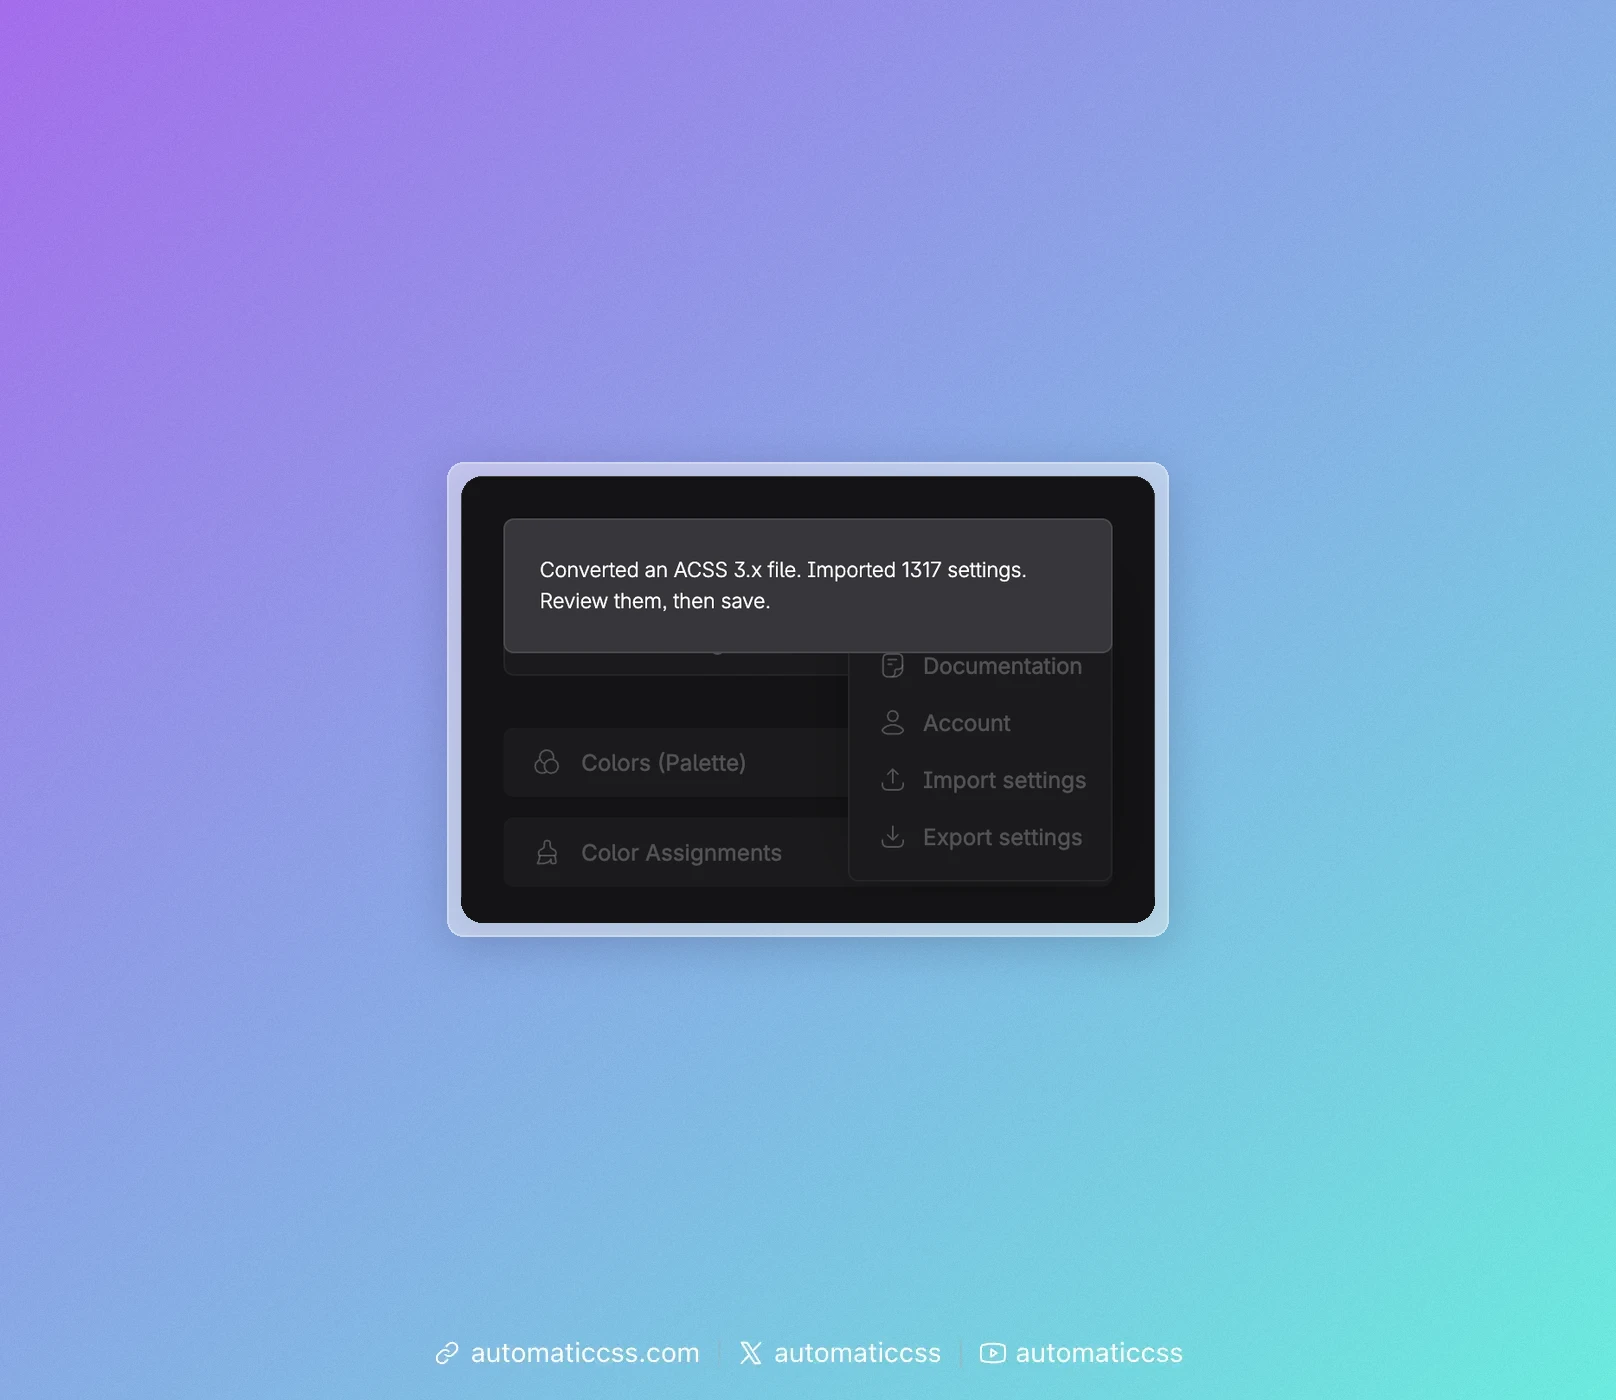
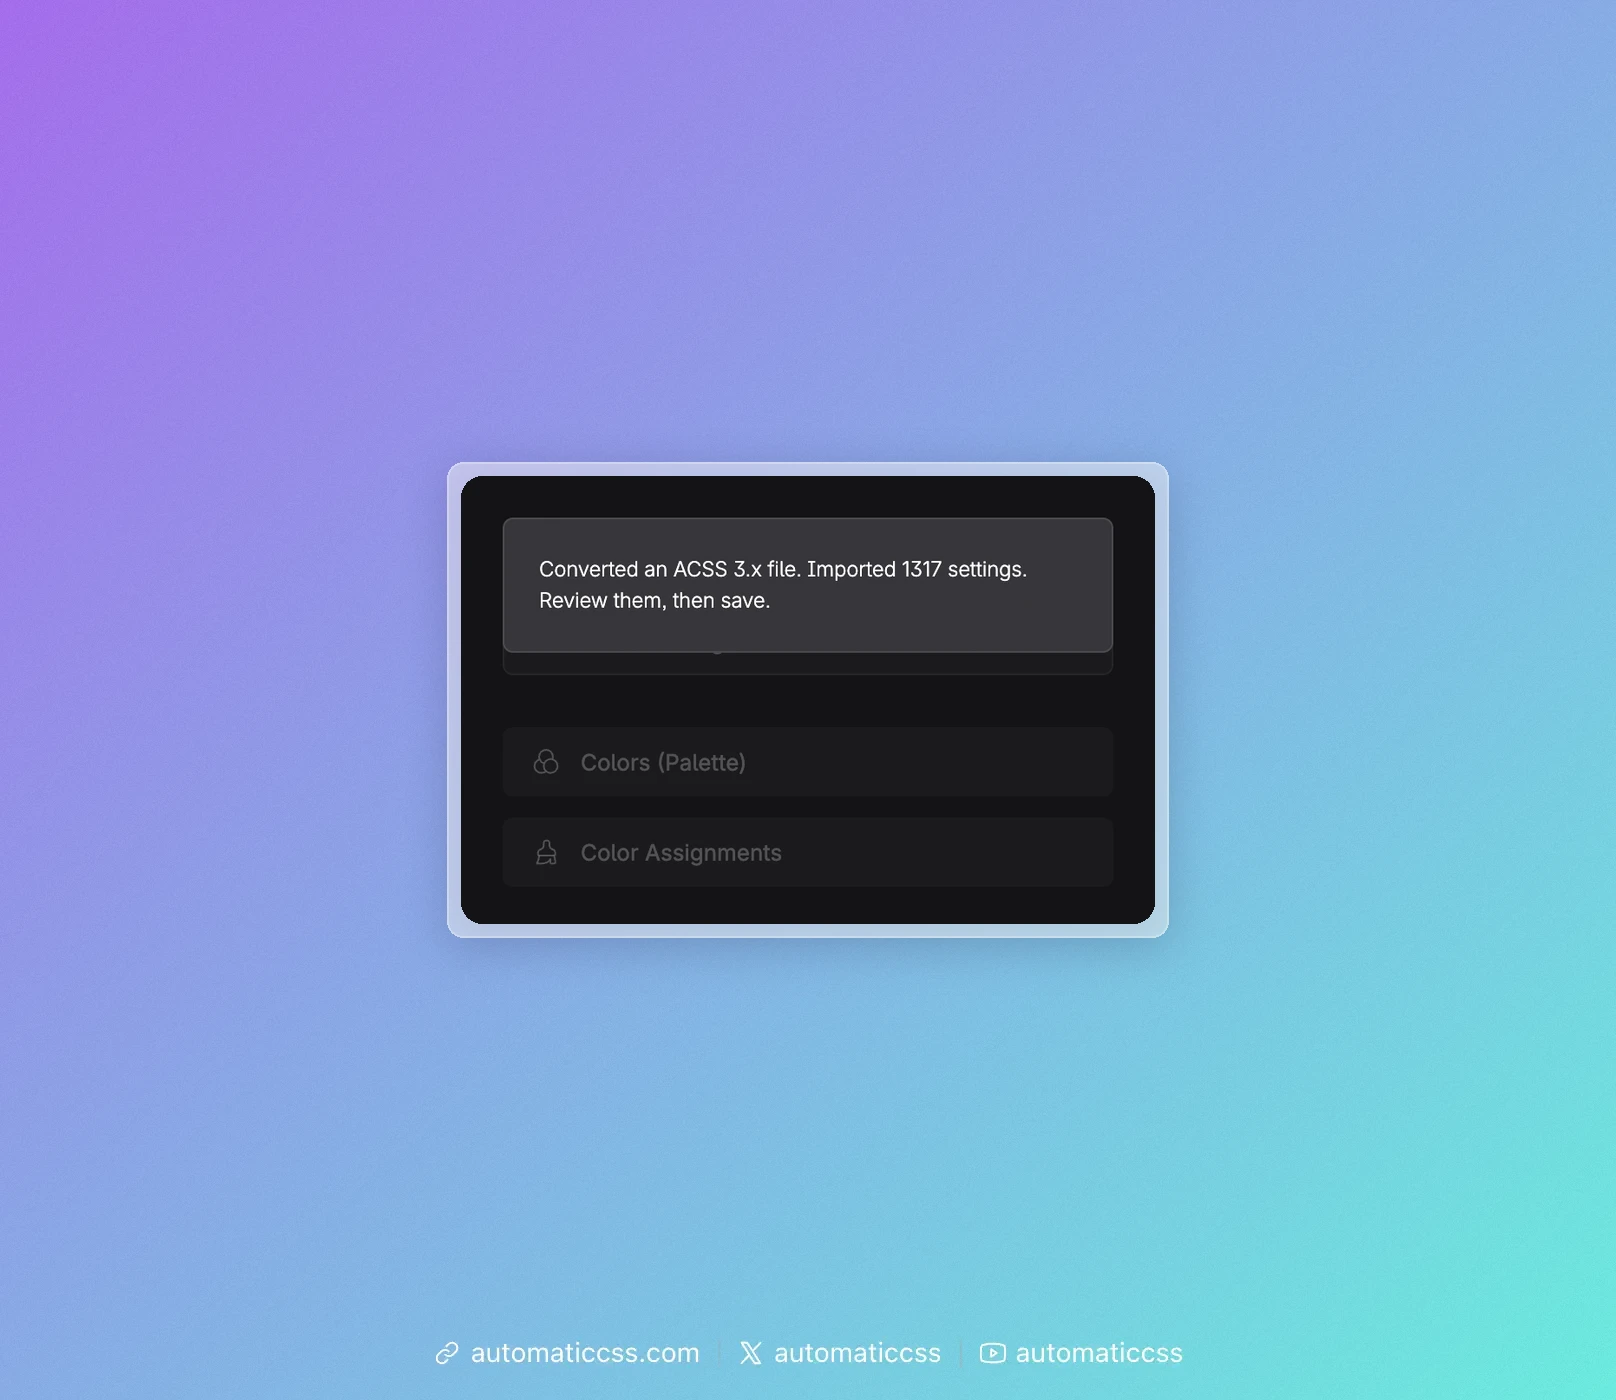
docs(setup): retake screenshots with the final menu and dot tooltips

diff --git a/docs/setup/import-export-settings.md b/docs/setup/import-export-settings.md
@@ -3,9 +3,9 @@ title: Import, Export and Reset Settings
 sidebar_position: 40
 ---
 
-You can move your Automatic.css settings between sites, or keep a copy of them, by exporting them as a JSON file and importing that file on another site. You can also reset all settings to the Automatic.css defaults, or discard changes you have not saved yet. All of these live in the dashboard's header menu. Further down, you'll also find what the dots in the dashboard mean.
+You can move your Automatic.css settings between sites, or keep a copy of them, by exporting them as a JSON file and importing that file on another site. You can also reset all settings to the Automatic.css defaults, or discard changes you have not saved yet. Import, export and reset live in the dashboard's header menu. Further down, you'll also find what the dots in the dashboard mean.
 
-![The dashboard header menu with Import settings, Export settings, Discard unsaved changes and Reset to defaults](img/dashboard-import-export-menu.webp)
+![The dashboard header menu with Import settings, Export settings and Reset to defaults](img/dashboard-import-export-menu.webp)
 
 ## Export your settings
 
@@ -74,11 +74,11 @@ When you point at the dot, it turns into a small ×. Click it to reset only this
 
 As soon as you change something, the dot next to the logo or the screen title turns from round to square. It stays square until you save or discard your changes.
 
-![The dot next to the screen title: round without unsaved changes, square with unsaved changes](img/dashboard-unsaved-dot-states.webp)
+![The dot next to the screen title: round with the tooltip No unsaved changes, square with the tooltip Discard unsaved changes](img/dashboard-unsaved-dot-states.webp)
 
 To go back to your last saved settings:
 
-1. Click the square dot. You can also open the menu in the top right corner and click **Discard unsaved changes**; that item is only available while you have unsaved changes.
+1. Click the square dot. When you point at it, its tooltip says **Discard unsaved changes**.
 2. Click **Discard changes**, or **Cancel** to keep editing.
 
 ![The notice that asks you to confirm discarding unsaved changes](img/dashboard-discard-unsaved-changes.webp)
